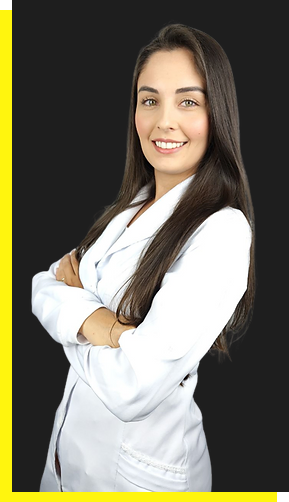
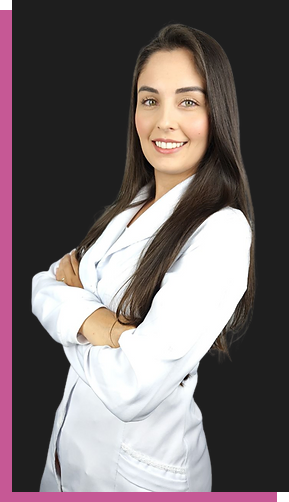
change the color

Changed region(s): [[0.0, 0.0, 0.9654, 1.0]]

diff --git a/pages/components/OqueVaiAprender.tsx b/pages/components/OqueVaiAprender.tsx
@@ -75,7 +75,7 @@ const OqueVaiAprender = () => {
             <Image src={video1} alt="print video" />
           </div>
           <div className="my-10">
-            <h1 className="text-3xl font-bold text-[#ED1566]">
+            <h1 className="text-3xl font-bold text-[#C65895]">
               Você vai aprender toda a parte teórica:
             </h1>
             <p className="text-xl mt-14 font-light">
@@ -91,7 +91,7 @@ const OqueVaiAprender = () => {
             <Image src={video2} alt="print video" />
           </div>
           <div className="my-10">
-            <h1 className="text-3xl font-bold text-[#ED1566]">
+            <h1 className="text-3xl font-bold text-[#C65895]">
               Você vai aprender toda a parte de treinamento:
             </h1>
             <p className="text-xl mt-14 font-light">
@@ -105,7 +105,7 @@ const OqueVaiAprender = () => {
             <Image src={video3} alt="print video" />
           </div>
           <div className="my-10">
-            <h1 className="text-3xl font-bold text-[#ED1566]">
+            <h1 className="text-3xl font-bold text-[#C65895]">
               Você vai aprender toda a parte de prática:
             </h1>
             <p className="text-xl mt-14 font-light">
@@ -122,7 +122,7 @@ const OqueVaiAprender = () => {
             <Image src={video4} alt="print video" />
           </div>
           <div className="my-10">
-            <h1 className="text-3xl font-bold text-[#ED1566]">
+            <h1 className="text-3xl font-bold text-[#C65895]">
               BÔNUS: Material de Apoio Personalizado
             </h1>
             <p className="text-xl mt-14 font-light">
@@ -134,7 +134,7 @@ const OqueVaiAprender = () => {
         </div>
 
         <h1 className="text-center text-white text-3xl md:text-5xl font-bold mb-10">
-          GRADE1 COMPLETA DO CURSO
+          GRADE COMPLETA DO CURSO
         </h1>
         <div className="grid grid-cols-1 md:grid-cols-3">
           {grade1.map((item, index) => (
@@ -152,7 +152,7 @@ const OqueVaiAprender = () => {
           ))}
         </div>
 
-        <h1 className="text-center text-[#ED1566] text-3xl md:text-5xl font-bold mb-10">
+        <h1 className="text-center text-[#C65895] text-3xl md:text-5xl font-bold mb-10">
           Aulas Bônus de Marketing Digital
         </h1>
         <h2 className="text-center text-white text-2xl md:text-4xl font-semibold mb-10">
@@ -176,7 +176,7 @@ const OqueVaiAprender = () => {
         </div>
         <h2 className="text-center text-white text-xl md:text-3xl font-semibold mb-10">
           Muitas meninas compram cursos técnicos, mas se esquecem que é{" "}
-          <span className="text-[#ED1566]">
+          <span className="text-[#C65895]">
             necessário saber estratégias de Vendas e Marketing{" "}
           </span>
           para conseguir dar certo na profissão. Logo acabam desistindo da

diff --git a/pages/index.tsx b/pages/index.tsx
@@ -25,14 +25,14 @@ export default function Home() {
         <span className="text-green-500"> R$ 297,00</span>
       </div>
 
-      <div className="bg-[#ED1566]">
+      <div className="bg-[#C65895]">
         <Inicio />
       </div>
       <ParaQuem />
       <div className="bg-[#252525]">
         <OqueVaiAprender />
       </div>
-      <div className="bg-[#ED1566]">
+      <div className="bg-[#C65895]">
         <ProvasSociais />
       </div>
       <Certificado />
@@ -45,7 +45,7 @@ export default function Home() {
         <Garantias />
       </div>
       <AprendaComQuemSabe />
-      <div className="bg-[#ED1566] p-10">
+      <div className="bg-[#C65895] p-10">
         <p className="text-center font-semibold">
           Esse produto é comercializado com apoio da Hotmart. A plataforma não
           faz controle editorial prévio dos produtos comercializados, nem avalia

diff --git a/pages/components/AprendaComQuemSabe.tsx b/pages/components/AprendaComQuemSabe.tsx
@@ -17,7 +17,7 @@ const AprendaComQuemSabe = (props: Props) => {
           <h1 className="text-5xl font-bold text-black text-left">
             Aprenda com Quem Sabe...
           </h1>
-          <div className="w-full h-1 bg-red-500 my-5" />
+          <div className="w-full h-1 bg-[#C65895] my-5" />
           <h2 className="text-black text-3xl font-semibold text-left">
             Larissa Costa
           </h2>

diff --git a/styles/globals.css b/styles/globals.css
@@ -25,9 +25,9 @@ a {
   }
 }
 
-#parte1 {
+/* #parte1 {
   background-color: #ed1566;
-}
+} */
 
 /* tailwind */
 
